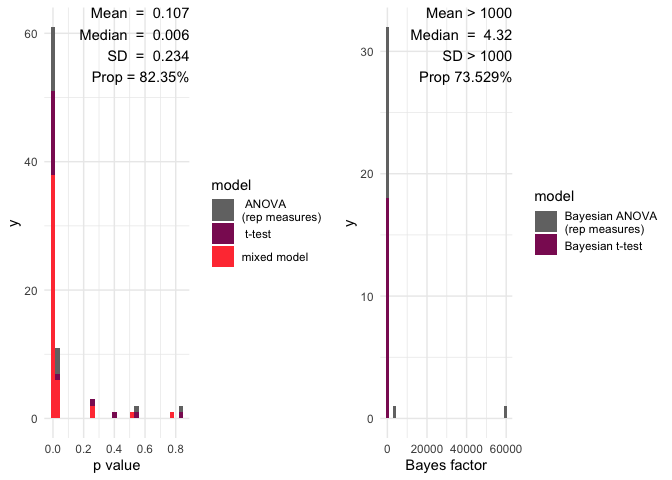
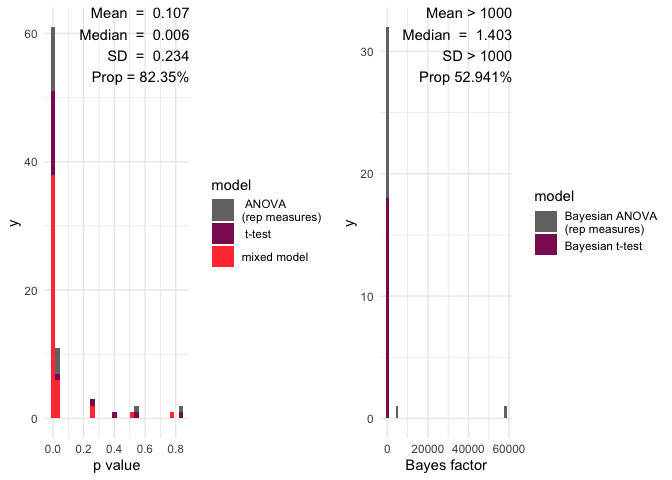
Rebuilt the README

diff --git a/README.md b/README.md
@@ -314,9 +314,9 @@ function and you will get:
 ``` r
 multifear::inference_cs(res_multi, na.rm = TRUE)
 #>   mean_p_value median_p_value sd_p_value prop_p_value mean_bf_value
-#> 1    0.1074323     0.00638261  0.2341194     82.35294      1897.458
+#> 1    0.1074323     0.00638261  0.2341194     82.35294       1855.05
 #>   median_bf_value sd_bf_value prop_bf_value
-#> 1        4.319848    10211.61      73.52941
+#> 1        1.403218    9970.071      52.94118
 ```
 
 And here we have a barplot of the results:
